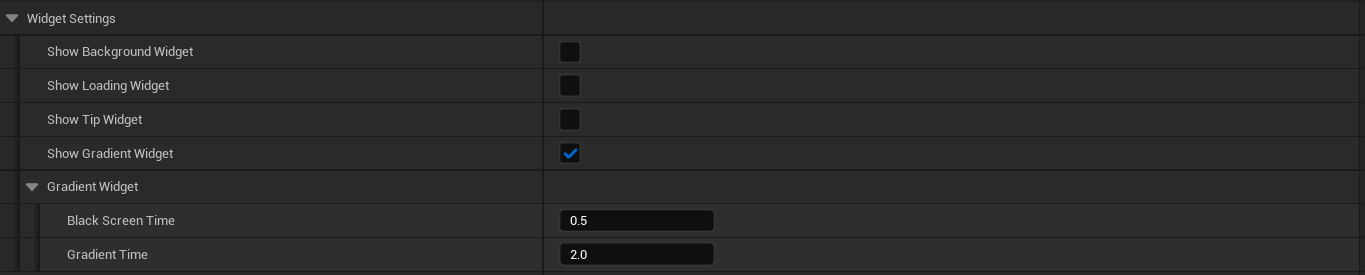
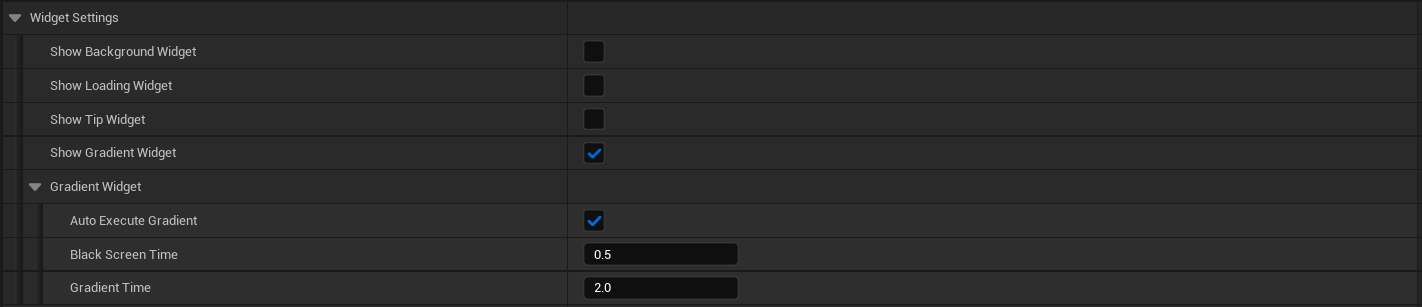
渐变时机可控

diff --git a/README.md b/README.md
@@ -215,7 +215,7 @@ static UCommonActivatableWidget* FindWidget(const UObject* WorldContextObject, U
 5、设置提示控件：开启`bShowTipWidget`启动提示控件，提示控件主要是由`SBorder`和`STextBlock`组成。
 ![FPLoadingScreen_Tip](https://github.com/FirePlume126/FP_Readme/blob/main/Images/FPLoadingScreen_Tip.png)
 
-6、设置渐变控件：开启`bShowGradientWidget`启动渐变控件，渐变控件会在加载结束后启动，先让屏幕变黑，然后缓慢让屏幕变量。`BlackScreenTime`为黑屏时间，`GradientTime`为渐变时间。
+6、设置渐变控件：开启`bShowGradientWidget`启动渐变控件，渐变控件会在加载结束后启动，先让屏幕变黑，然后缓慢让屏幕变亮。`bAutoExecuteGradient`为自动执行渐变，为true时会自动渐变并销毁控件，为false时需要调用`UFPLoadingScreenFunctionLibrary::ExecuteLoadingScreenGradient()`才会执行渐变并销毁控件；`BlackScreenTime`为黑屏时间，`GradientTime`为渐变时间。
 ![FPLoadingScreen_Gradient](https://github.com/FirePlume126/FP_Readme/blob/main/Images/FPLoadingScreen_Gradient.png)
 
 <a name="fponlinesystem"></a>
@@ -306,6 +306,9 @@ virtual void LoadPlayerState(USaveGame* NewSaveObject) override;
 // 保存玩家状态
 virtual void SavePlayerState(USaveGame* NewSaveObject) override;
 
+// 加入游戏更换Pawn完成，重写此函数可以让屏幕亮起来的逻辑(仅在本地客户端执行)
+virtual void JoinGameChangePawnCompleted() override;
+
 // .cpp
 
 void AMyPlayerState::BanPlayerJoinGameForUI()
@@ -332,6 +335,12 @@ void AMyPlayerState::SavePlayerState(USaveGame* NewSaveObject)
 	{
 		SavePlayerData->CharacterTransform = CharacterTransform;
 	}	
+}
+
+void AMyPlayerState::JoinGameChangePawnCompleted()
+{
+	// 这里使用了FPLoadingScreen模块
+	UFPLoadingScreenFunctionLibrary::ExecuteLoadingScreenGradient();
 }
 ```
 
@@ -516,8 +525,7 @@ void AMyPlayerState::BeginPlay()
 7、调用`AFPOnlinePlayerState`的函数添加聊天消息功能
 
 ```c++
-// 接收聊天消息，重写后把消息添加到UI
-UFUNCTION()
+// 接收聊天消息，重写后把消息添加到UI(仅在本地客户端执行)
 virtual void ReceiveChatMessage(const FFPOnlineMessageData& InMessageDat);
 
 // 发送聊天信息，本地调用
